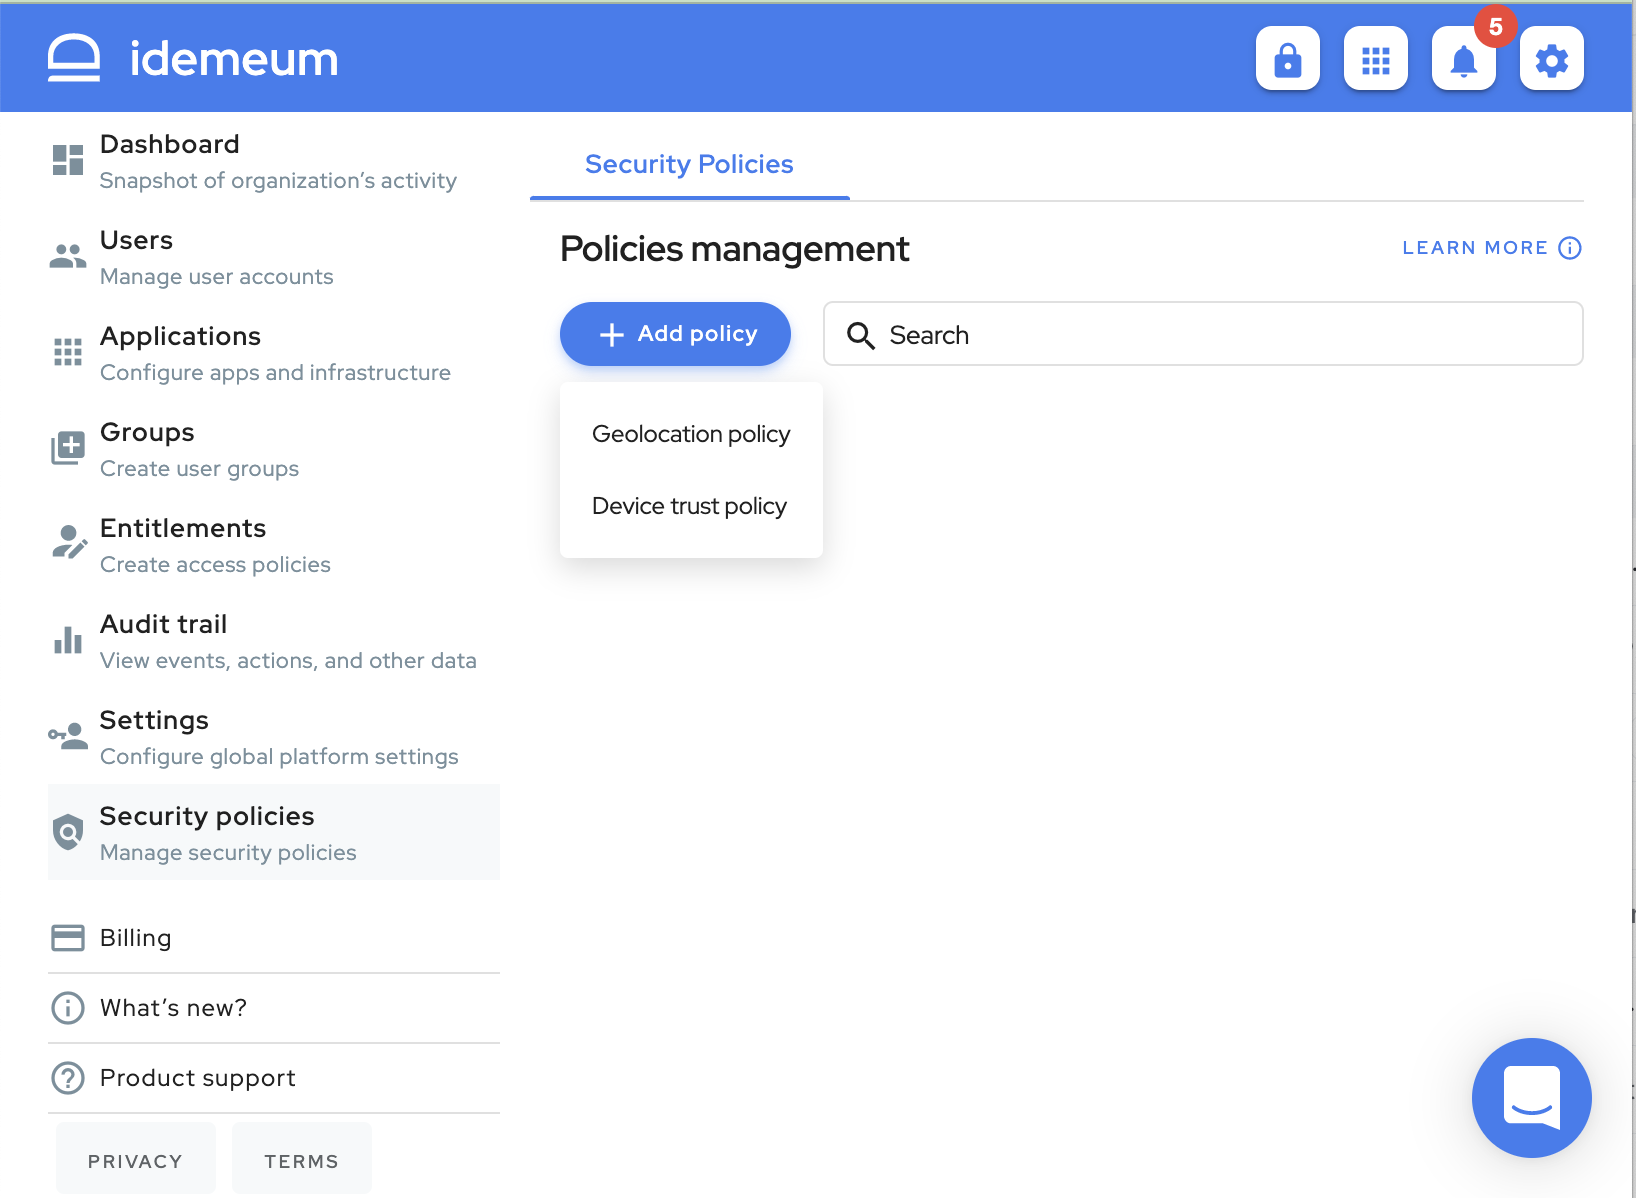
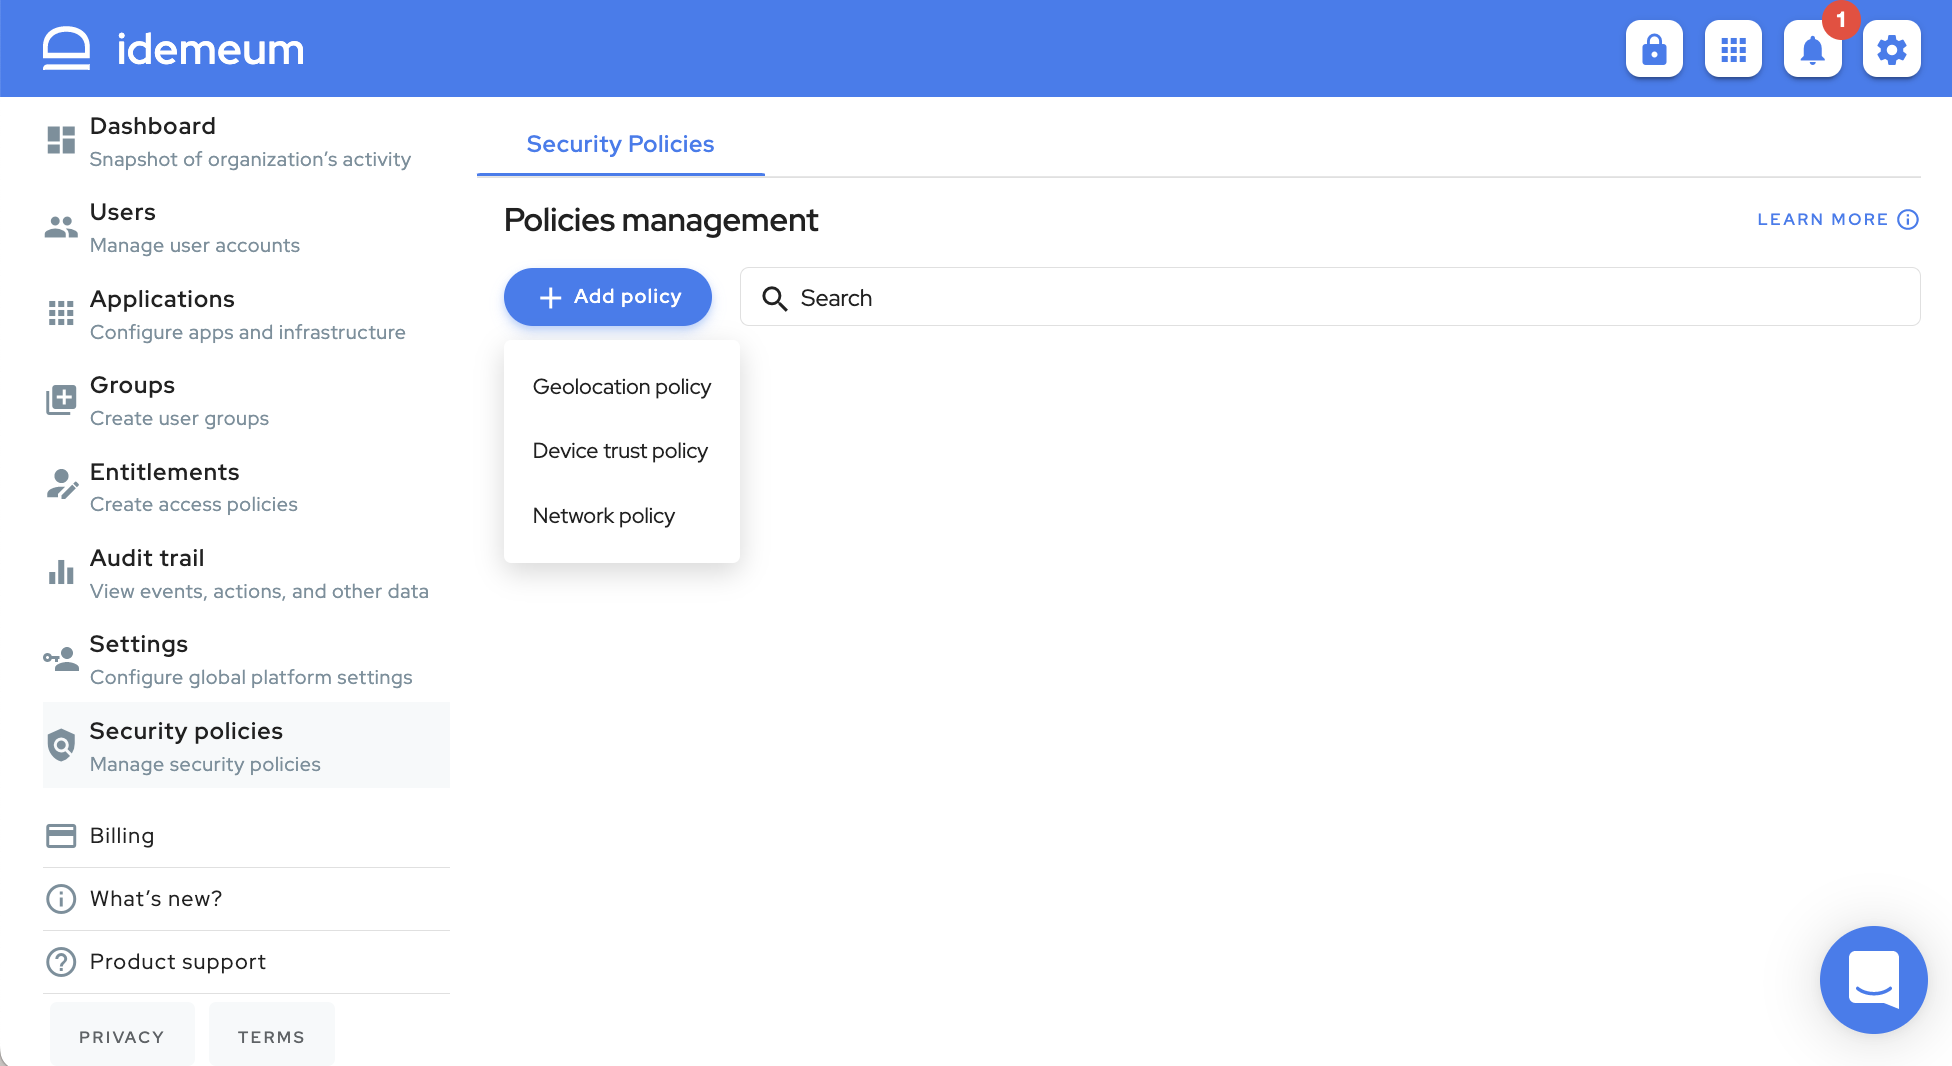
IDEM-2609: Network security policy documentation

diff --git a/security-policies.md b/security-policies.md
@@ -45,4 +45,10 @@ Users subjected to a device trust policy can only use the idemeum web portal on 
 Policy also allows administrator to completely block a mobile platform as shown below.
 
 ![Device Trust Policy](./images/security-policies/security-policies-device-trust.png)
+![Device Trust Policy Lock/Unlock](./images/security-policies/security-policies-device-posture-locking.png)
 
+## Network Policy
+
+Users subjected to a network policy can only login from the devices with public ipv4 address that match the policy rules.
+
+![Device Trust Policy](./images/security-policies/security-policies-network.png)
